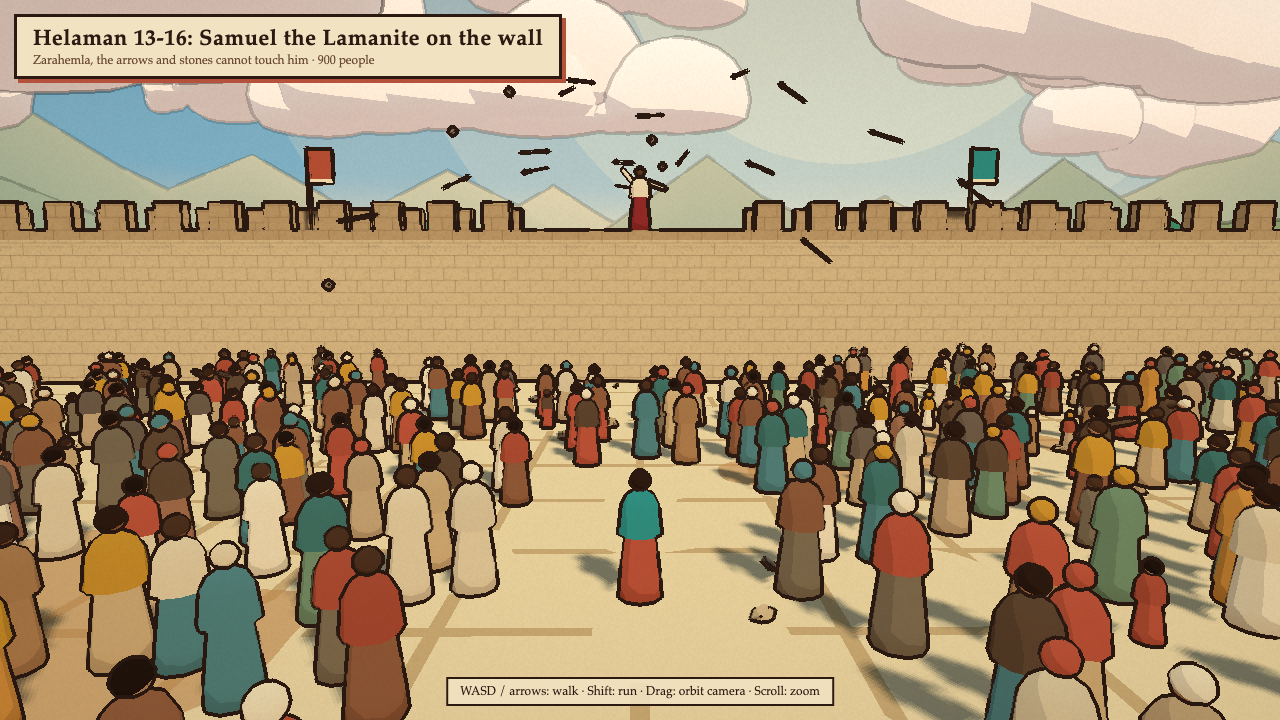
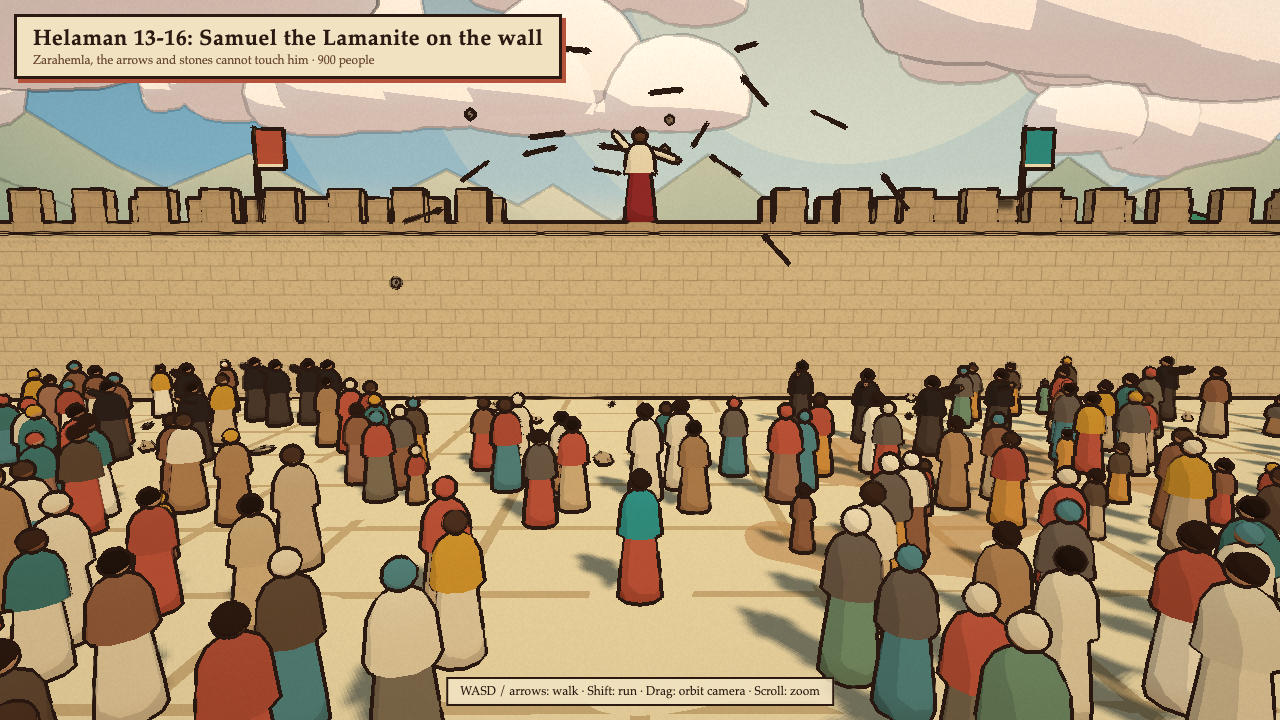
feat: polish toon scenes bom-37 to bom-42

diff --git a/styles/toon/scenes/bom-40.js b/styles/toon/scenes/bom-40.js
@@ -8,24 +8,24 @@ const LAKE = { x: -78, z: -30, r: 34 };
 
 function lightning(ctx, rng) {
   const bolts = [];
-  for (let b = 0; b < 3; b++) {
-    const pts = [];
-    let x = between(rng, [-120, 120]), y = 160, z = between(rng, [-260, -160]);
-    while (y > 0) {
-      pts.push(x, y, z);
-      x += between(rng, [-10, 10]);
-      y -= between(rng, [12, 22]);
-      z += between(rng, [-4, 4]);
+  const mat = new THREE.MeshBasicMaterial({ color: '#f4ecff', fog: false, transparent: true, depthWrite: false });
+  for (let b = 0; b < 4; b++) {
+    const path = new THREE.CurvePath();
+    let p = new THREE.Vector3((b - 1.5) * 55 + between(rng, [-15, 15]), 150, between(rng, [-200, -130]));
+    const base = p.clone();
+    while (p.y > 0) {
+      const next = p.clone().add(new THREE.Vector3(between(rng, [-9, 9]), -between(rng, [10, 20]), between(rng, [-4, 4])));
+      next.y = Math.max(0, next.y);
+      path.add(new THREE.LineCurve3(p, next));
+      p = next;
     }
-    pts.push(x, 0, z);
-    const geo = new THREE.BufferGeometry();
-    geo.setAttribute('position', new THREE.Float32BufferAttribute(pts, 3));
-    const line = new THREE.Line(geo, new THREE.LineBasicMaterial({ color: '#f4ecff', fog: false, transparent: true }));
-    line.layers.set(FX_LAYER);
-    line.frustumCulled = false;
-    line.visible = false;
-    ctx.scene.add(line);
-    bolts.push({ line, phase: b * 2.3 + rng() * 2 });
+    const mesh = new THREE.Mesh(new THREE.TubeGeometry(path, path.curves.length * 2, 0.7, 4, false), mat);
+    mesh.layers.set(FX_LAYER);
+    mesh.frustumCulled = false;
+    mesh.visible = false;
+    ctx.scene.add(mesh);
+    const halo = glow(ctx, [base.x, base.y - 20, base.z], 120, '#b9a8ff', 0, 0);
+    bolts.push({ mesh, halo, phase: b * 1.1 + rng() * 0.6 });
   }
   const flash = new THREE.DirectionalLight('#c9c0ff', 0);
   flash.position.set(0, 200, -150);
@@ -33,9 +33,10 @@ function lightning(ctx, rng) {
   ctx.onFrame((t) => {
     let lit = 0;
     for (const b of bolts) {
-      const u = (t + b.phase) % 6.5;
+      const u = (t + b.phase) % 4.4;
       const on = u < 0.12 || (u > 0.22 && u < 0.3);
-      b.line.visible = on;
+      b.mesh.visible = on;
+      b.halo.material.opacity = on ? 0.55 : Math.max(0, 0.3 - u) * 0.8;
       if (on) lit = 1;
     }
     flash.intensity = lit * 1.6;
@@ -110,7 +111,7 @@ export default {
 
   sky: { zenith: '#0c0a10', mid: '#1c171e', horizon: '#3a2228', ground: '#140f12', glowColor: '#7a3420', glowDir: [0, 0.08, -1] },
 
-  sun: { dir: [0.2, 0.7, -0.7], color: '#b08070', intensity: 1.1, hemi: { sky: '#6a5a6a', ground: '#3a261c', intensity: 1.25 }, shadowSize: 70 },
+  sun: { dir: [0.2, 0.7, -0.7], color: '#b08070', intensity: 1.1, hemi: { sky: '#7a6070', ground: '#5a3424', intensity: 1.45 }, shadowSize: 70 },
 
   ground: {
     size: 1200, segments: 240, flatRadius: 130, hillHeight: 40, undulation: 0.45,
@@ -180,15 +181,16 @@ export default {
     colors: MOURNER_ROBES,
     aisles: [{ from: [0, 40], to: [0, 10], width: 3 }],
     groups: [
-      { center: [-8, 22], radius: [0, 5], count: 34, kneel: 0.7, children: 0.15, facing: [0, -60], facingJitter: 1.2, lean: 0.4 },
-      { center: [12, 26], radius: [0, 4], count: 14, kneel: 0.6, children: 0.1, facing: [10, -60], facingJitter: 1.2, lean: 0.4 },
-      { center: [-26, 8], radius: [0, 6], count: 44, kneel: 0.6, children: 0.15, facing: [-20, -60], facingJitter: 1.5, lean: 0.4 },
-      { center: [30, 12], radius: [0, 5], count: 36, kneel: 0.6, children: 0.15, facing: [30, -60], facingJitter: 1.5, lean: 0.4 },
+      { center: [-5, -3], radius: [0, 4], count: 30, kneel: 0.7, children: 0.15, facing: [0, -60], facingJitter: 0.8, lean: 0.4 },
+      { center: [7, -5], radius: [0, 3.5], count: 22, kneel: 0.6, children: 0.1, facing: [10, -60], facingJitter: 0.8, lean: 0.4 },
+      { center: [-8, 22], radius: [0, 5], count: 24, kneel: 0.7, children: 0.15, facing: [0, -60], facingJitter: 1.2, lean: 0.4 },
+      { center: [-26, 8], radius: [0, 6], count: 34, kneel: 0.6, children: 0.15, facing: [-20, -60], facingJitter: 1.5, lean: 0.4 },
+      { center: [30, 12], radius: [0, 5], count: 30, kneel: 0.6, children: 0.15, facing: [30, -60], facingJitter: 1.5, lean: 0.4 },
     ],
   },
 
   player: {
-    start: [0, 30],
+    start: [0, 6],
     lookAt: [0, -55],
     colors: { robe: '#5e4632', mantle: '#3a2f2a', skin: '#a8724a', hair: '#2b1a12', sash: '#7a6a52' },
   },

diff --git a/styles/toon/scenes/bom-42.js b/styles/toon/scenes/bom-42.js
@@ -5,6 +5,12 @@ import { angel, flames, glow } from './lib/bom-37-kit.js';
 const CHRIST = [0, -15.5];
 const RING = 5.8;
 const ANGELS = 8;
+const ANGEL_LOOK = {
+  colors: { robe: '#b4c9ea', mantle: '#a2bae2', skin: '#cfdcf0', hair: '#c4d4ee', sash: '#94acd8', arms: [0.5, 0.45] },
+  glowColor: '#b8d0ff',
+  glowAmount: 0.3,
+  opacity: 0.6,
+};
 
 export default {
   ...base,
@@ -20,7 +26,7 @@ export default {
     for (let i = 0; i < 64; i++) {
       const a = (i / 64) * Math.PI * 2;
       const x = CHRIST[0] + Math.sin(a) * RING, z = CHRIST[1] + Math.cos(a) * RING;
-      fire.push({ x, y: ctx.groundHeight(x, z) - 0.05, z, size: 0.6 + (i % 3) * 0.18 });
+      fire.push({ x, y: ctx.groundHeight(x, z) - 0.05, z, size: 0.42 + (i % 3) * 0.12 });
     }
     flames(ctx, fire, { outer: '#ffb347', inner: '#fff1b8' });
     for (let i = 0; i < ANGELS; i++) {
@@ -28,10 +34,10 @@ export default {
       const r = RING + 1.4;
       const x = CHRIST[0] + Math.sin(a) * r, z = CHRIST[1] + Math.cos(a) * r;
       const h = i % 2 ? 2.0 : 3.4;
-      angel(ctx, [x, ctx.groundHeight(x, z) + h, z], { facing: CHRIST, phase: i * 0.9, drift: 0.2, scale: 0.95, glowSize: 4 });
+      angel(ctx, [x, ctx.groundHeight(x, z) + h, z], { ...ANGEL_LOOK, facing: CHRIST, phase: i * 0.9, drift: 0.2, scale: 0.72, glowSize: 3 });
     }
     const high = [[-14, 14, -6], [12, 20, -20], [-4, 28, -30], [20, 11, -4], [-22, 22, -24]];
-    high.forEach((p, i) => angel(ctx, p, { facing: [0, 10], phase: i * 1.7, drift: 0.6, glowSize: 7 }));
+    high.forEach((p, i) => angel(ctx, p, { ...ANGEL_LOOK, facing: [0, 10], phase: i * 1.7, drift: 0.6, scale: 0.85, glowSize: 5 }));
     glow(ctx, [CHRIST[0], y + 0.8, CHRIST[1]], 16, '#ffe0a0', 0.3);
   },
 
@@ -60,7 +66,7 @@ export default {
     layers: base.clouds.layers.map((l) => (l.center ? { ...l, center: CHRIST } : l)),
   },
 
-  figures: [{ ...base.figures[0], pos: CHRIST, scale: 1.25, glow: 0.5, facing: [0, 30], colors: { ...base.figures[0].colors, arms: [0.75, 0.55] } }],
+  figures: [{ ...base.figures[0], pos: CHRIST, scale: 1.45, glow: 0.55, facing: [0, 30], colors: { ...base.figures[0].colors, robe: '#fff6e2', mantle: '#f8e7c4', sash: '#e6c27a', arms: [0.75, 0.55] } }],
 
   crowd: {
     ...base.crowd,
@@ -73,5 +79,5 @@ export default {
     ],
   },
 
-  player: { ...base.player, start: [0, 1], lookAt: CHRIST },
+  player: { ...base.player, start: [0, -7.5], lookAt: CHRIST },
 };

diff --git a/styles/toon/scenes/bom-37.js b/styles/toon/scenes/bom-37.js
@@ -4,7 +4,7 @@ import { BASE_STYLE, GROUND_COLORS, MOUNTAINS, ROBES, banners, cityWall, figure,
 const WALL_Z = -22;
 const SAMUEL = [0, WALL_Z];
 const SAMUEL_COLORS = { robe: '#8e2b2b', mantle: '#e6d8b8', skin: '#5e3b26', hair: '#1f140e', sash: '#c8912e' };
-const SHOOTER = { robe: '#7a6a52', mantle: '#5e4632', skin: '#a87650', hair: '#2b1a12' };
+const SHOOTER = { robe: '#4a3a2e', mantle: '#2b211c', skin: '#a87650', hair: '#1f140e', sash: '#8e2b2b' };
 
 export default {
   title: 'Helaman 13-16: Samuel the Lamanite on the wall',
@@ -36,15 +36,15 @@ export default {
     for (const x of [-60, 60]) cityWall(ctx, { from: [x * 1.83, WALL_Z], to: [x * 1.83, 120], height: 7.5, thickness: 3.2, color: '#d2ba8f', cap: '#b89a70' });
     banners(ctx, [-30, -14, 14, 30].map((x, i) => ({ x, z: WALL_Z, y: wall.top, height: 3.5, color: i % 2 ? '#b5523b' : '#2f8f8a' })));
 
-    const samuel = figure(ctx, SAMUEL_COLORS, [SAMUEL[0], SAMUEL[1] + 0.9], { y: wall.top, facing: [0, 20], scale: 1.5, clear: 0 });
+    const samuel = figure(ctx, SAMUEL_COLORS, [SAMUEL[0], SAMUEL[1] + 0.9], { y: wall.top, facing: [0, 20], scale: 1.9, clear: 0 });
     raiseArm(ctx, samuel, SAMUEL_COLORS, 1, 2.6);
     raiseArm(ctx, samuel, SAMUEL_COLORS, -1, 1.1, 0.6);
 
     const rng = makeRng(37);
     const from = [];
     for (let i = 0; i < 12; i++) {
-      const x = (rng() < 0.5 ? -1 : 1) * between(rng, [3, 22]), z = between(rng, [-14, -4]);
-      const f = figure(ctx, SHOOTER, [x, z], { facing: [SAMUEL[0], SAMUEL[1]], clear: 0.7 });
+      const x = (rng() < 0.5 ? -1 : 1) * between(rng, [3, 16]), z = between(rng, [-17, -12]);
+      const f = figure(ctx, SHOOTER, [x, z], { facing: [SAMUEL[0], SAMUEL[1]], clear: 1.1, scale: 1.08 });
       raiseArm(ctx, f, SHOOTER, rng() < 0.5 ? 1 : -1, 2.4, 0.5);
       from.push([x, ctx.terrainHeight(x, z) + 2.1, z]);
     }
@@ -82,12 +82,12 @@ export default {
     colors: ROBES,
     aisles: [{ from: [0, 30], to: [0, -6], width: 3.4 }],
     groups: [
-      { center: [0, WALL_Z], radius: [9, 42], angle: [-1.3, 1.3], count: 900, kneel: 0.02, children: 0.08 },
+      { center: [0, WALL_Z], radius: [11, 42], angle: [-1.3, 1.3], count: 900, kneel: 0.02, children: 0.08 },
           ],
   },
 
   player: {
-    start: [0, -1],
+    start: [0, -5],
     lookAt: [0, WALL_Z],
     colors: { robe: '#b5523b', mantle: '#2f8f8a', skin: '#a8724a', hair: '#2b1a12', sash: '#c8912e' },
   },

diff --git a/styles/toon/scenes/bom-38.js b/styles/toon/scenes/bom-38.js
@@ -4,7 +4,7 @@ import { BASE_STYLE, GROUND_COLORS, MOUNTAINS, ROBES, figure, kneeling, newStar,
 const NEPHI = [0, -10];
 const NEPHI_COLORS = { robe: '#efe3c2', mantle: '#3e6e8e', skin: '#a8724a', hair: '#3a2418', sash: '#c8912e' };
 const SUNSET = [-0.18, 0.075, -1];
-const STAR = [0.16, 0.3, -1];
+const STAR = [0.07, 0.2, -1];
 
 export default {
   title: '3 Nephi 1:4-21: The night without darkness',
@@ -33,14 +33,14 @@ export default {
   custom(ctx) {
     skyDisc(ctx, SUNSET, { size: 150, color: '#ffbe5c', opacity: 1 });
     skyDisc(ctx, SUNSET, { size: 420, color: '#ffd79a', opacity: 0.55 });
-    newStar(ctx, STAR, { size: 70, color: '#fffbe8' });
+    newStar(ctx, STAR, { size: 80, color: '#fffbe8' });
 
-    kneeling(ctx, NEPHI_COLORS, NEPHI, { facing: [0, -40], bow: 0.75, scale: 1.05 });
+    kneeling(ctx, NEPHI_COLORS, NEPHI, { facing: [0, -40], bow: 0.75, scale: 1.3 });
 
     const rng = makeRng(38);
     for (let i = 0; i < 18; i++) {
-      const x = between(rng, [-24, 24]), z = between(rng, [-2, 14]);
-      if (Math.abs(x) < 3) continue;
+      const x = between(rng, [-15, 15]), z = between(rng, [-7, 2]);
+      if (Math.abs(x) < 3.2) continue;
       const c = { robe: pick(rng, ROBES.robes), mantle: pick(rng, ROBES.mantles), skin: pick(rng, ROBES.skins), hair: pick(rng, ROBES.hair) };
       const f = figure(ctx, c, [x, z], { facing: [x * 0.6, -60], clear: 0.7 });
       raiseArm(ctx, f, c, 1, 2.7, 0.15);
@@ -88,7 +88,7 @@ export default {
   },
 
   player: {
-    start: [0, 6],
+    start: [0, -1],
     lookAt: [0, -40],
     colors: { robe: '#b5523b', mantle: '#2f8f8a', skin: '#a8724a', hair: '#2b1a12', sash: '#c8912e' },
   },

diff --git a/styles/toon/scenes/lib/bom-37-kit.js b/styles/toon/scenes/lib/bom-37-kit.js
@@ -427,15 +427,35 @@ export function animals(ctx, items) {
   }
 }
 
+const translucentCache = new Map();
+function translucent(mat, opacity) {
+  const key = `${mat.uuid}|${opacity}`;
+  if (!translucentCache.has(key)) {
+    const m = mat.clone();
+    m.transparent = true;
+    m.opacity = opacity;
+    m.depthWrite = false;
+    translucentCache.set(key, m);
+  }
+  return translucentCache.get(key);
+}
+
 // A faceless figure in white light, hovering, with a soft glow and a gentle drift.
-export function angel(ctx, [x, y, z], { facing = [0, 0], scale = 1.05, colors, drift = 0.25, phase = 0, glowSize = 5 } = {}) {
+export function angel(ctx, [x, y, z], { facing = [0, 0], scale = 1.05, colors, drift = 0.25, phase = 0, glowSize = 5, glowColor = '#fff3d0', glowAmount = 0.55, opacity = 1 } = {}) {
   const c = colors ?? { robe: '#fbf7ee', mantle: '#f3eddf', skin: '#f6e7cf', hair: '#f6edd8', sash: '#efe0b8', arms: [0.5, 0.45] };
-  const fig = makeFigure(c, ctx.kit, { glow: 0.55 });
+  const fig = makeFigure(c, ctx.kit, { glow: glowAmount });
+  if (opacity < 1) {
+    fig.traverse((m) => {
+      if (!m.isMesh) return;
+      m.material = translucent(m.material, opacity);
+      m.castShadow = false;
+    });
+  }
   fig.position.set(x, y, z);
   fig.scale.setScalar(scale);
   fig.rotation.y = Math.atan2(facing[0] - x, facing[1] - z);
   ctx.scene.add(fig);
-  const g = glow(ctx, [x, y + 1.0 * scale, z], glowSize, '#fff3d0', 0.75);
+  const g = glow(ctx, [x, y + 1.0 * scale, z], glowSize, glowColor, 0.75);
   ctx.onFrame((t) => {
     const dy = Math.sin(t * 0.8 + phase) * drift;
     fig.position.y = y + dy;

diff --git a/styles/toon/scenes/bom-39.js b/styles/toon/scenes/bom-39.js
@@ -106,10 +106,13 @@ export default {
     for (const x of [-60, -18, 18, 60]) watchtower(ctx, [x, LINE_Z + 6]);
     banners(ctx, [-50, -36, -8, 8, 36, 50].map((x, i) => ({ x, z: LINE_Z + 4, height: 7, color: ['#b5523b', '#2f6f8a', '#c8912e'][i % 3] })));
 
-    const standY = ctx.terrainHeight(...GIDGIDDONI) + 1.6;
-    boxes(ctx, [{ pos: [GIDGIDDONI[0], standY - 0.8, GIDGIDDONI[1]], size: [4, 1.6, 3], color: '#957448' }]);
+    const gateY = ctx.terrainHeight(0, LINE_Z);
+    boxes(ctx, [-3, -1, 1, 3].map((x) => ({ pos: [x, gateY + 2.6, LINE_Z + 2.4], size: [1.9, 5.2, 0.35], color: '#5a3a22' })));
+    ctx.addCollider({ x: 0, z: LINE_Z + 2.4, hx: 4, hz: 0.3, rot: 0, top: gateY + 5.2 });
+    const standY = ctx.terrainHeight(...GIDGIDDONI) + 2.0;
+    boxes(ctx, [{ pos: [GIDGIDDONI[0], standY - 1.0, GIDGIDDONI[1]], size: [4, 2.0, 3], color: '#957448' }]);
     ctx.addCollider({ x: GIDGIDDONI[0], z: GIDGIDDONI[1], hx: 2, hz: 1.5, rot: 0, top: standY });
-    const gid = figure(ctx, CAPTAIN, GIDGIDDONI, { y: standY, facing: [0, 0], scale: 1.1, clear: 2.5 });
+    const gid = figure(ctx, CAPTAIN, GIDGIDDONI, { y: standY, facing: [0, 0], scale: 1.5, clear: 2.5 });
     raiseArm(ctx, gid, CAPTAIN, 1, 2.5);
 
     const herd = [
@@ -169,7 +172,7 @@ export default {
   },
 
   player: {
-    start: [0, 22],
+    start: [0, -12],
     lookAt: [0, LINE_Z],
     colors: { robe: '#b5523b', mantle: '#2f8f8a', skin: '#a8724a', hair: '#2b1a12', sash: '#c8912e' },
   },
